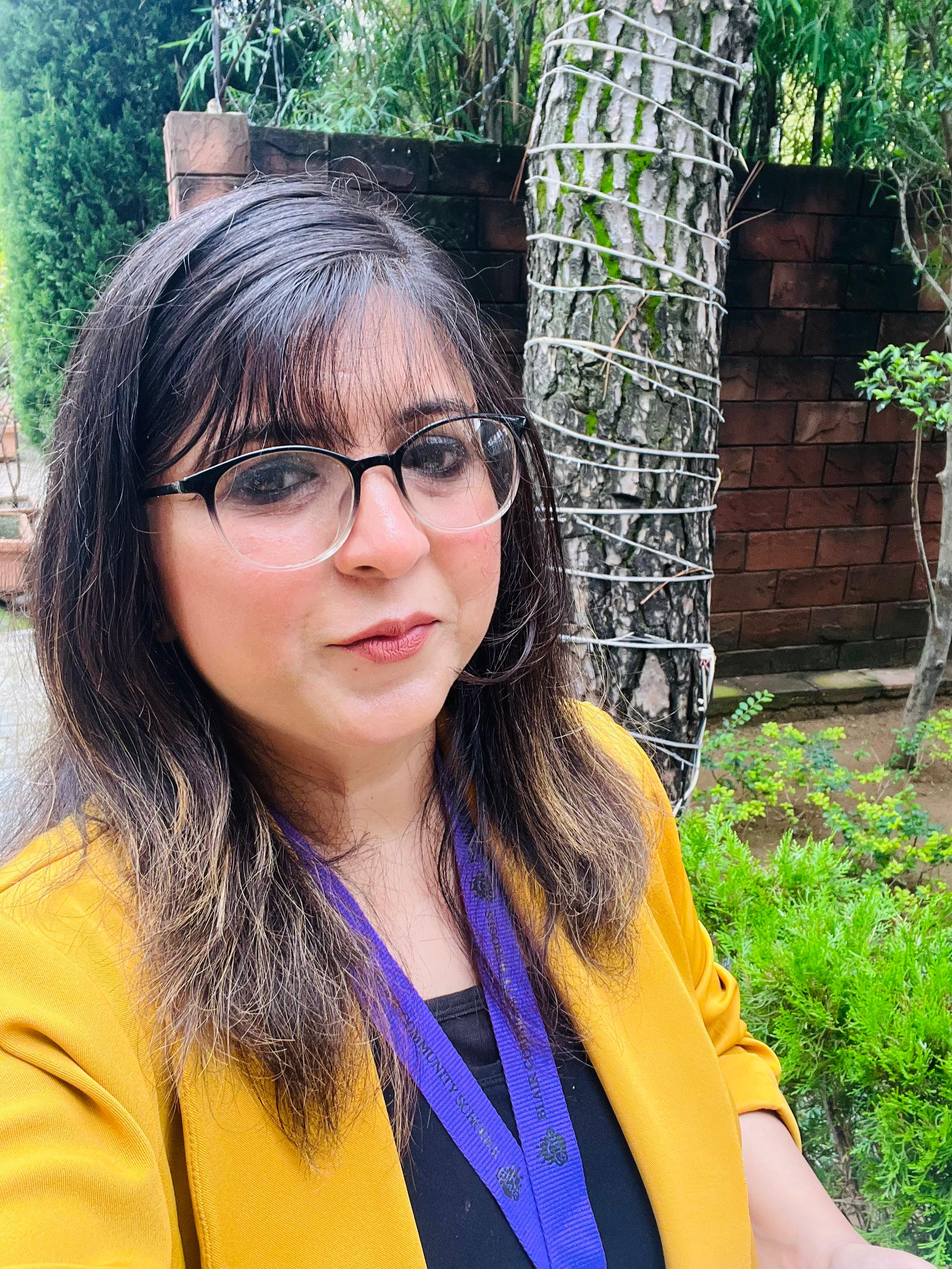
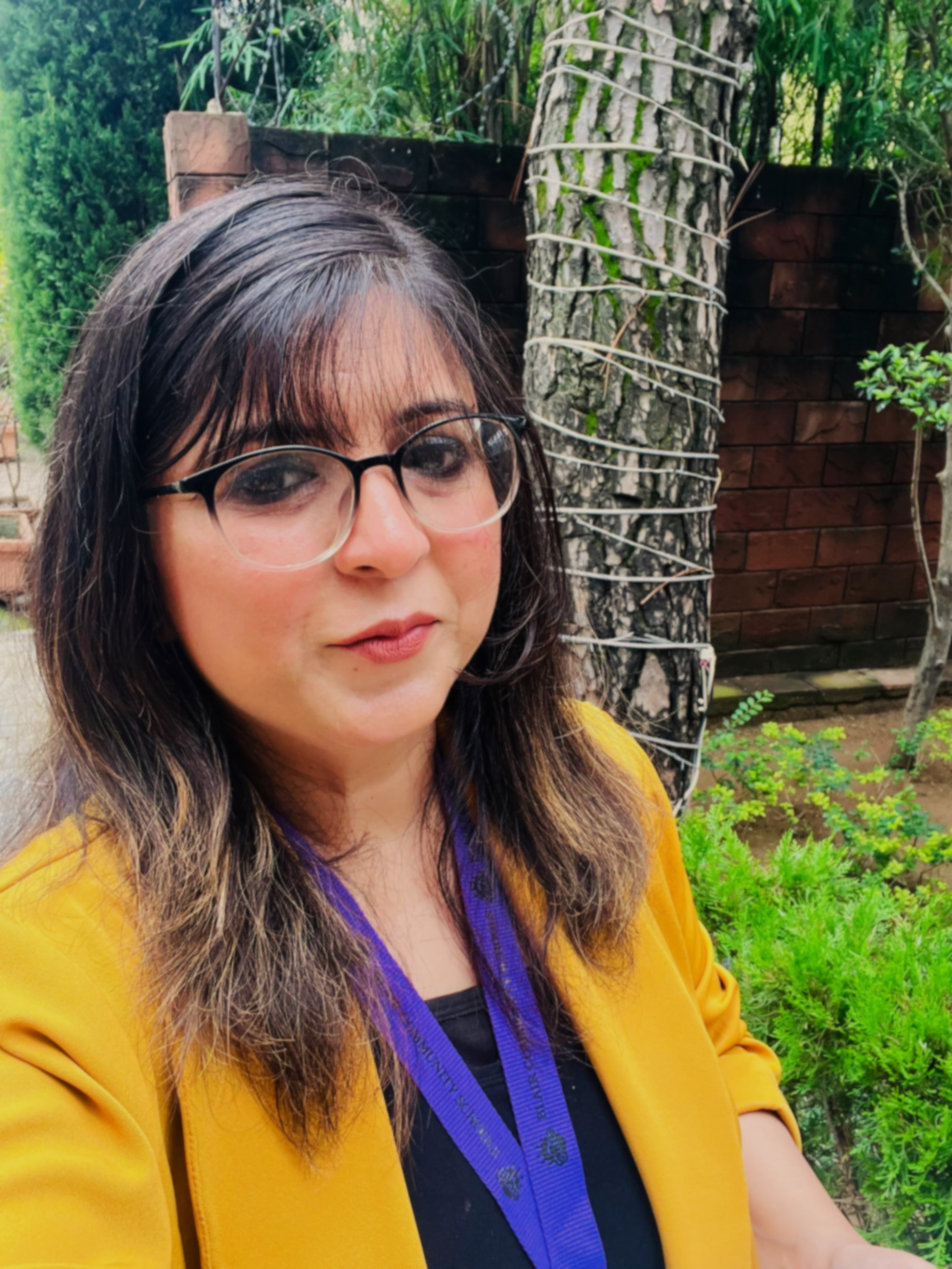
fixed some bugs

diff --git a/our-team.html b/our-team.html
@@ -1382,7 +1382,7 @@
             <div class="image-container">
               <div class="circle-bg"></div>
               <img
-                src="https://images.unsplash.com/photo-1472099645785-5658abf4ff4e?w=400&h=400&fit=crop&crop=face"
+                src="/assets/image/maam-yasmeen-rabnwaz.jpg"
                 alt="Muhammad Awais"
                 class="profile-image"
               />
@@ -1530,7 +1530,7 @@
             <div class="image-container">
               <div class="circle-bg"></div>
               <img
-                src="https://images.unsplash.com/photo-1472099645785-5658abf4ff4e?w=400&h=400&fit=crop&crop=face"
+                src="/assets/image/saima-tasaduq.jpg"
                 alt="Muhammad Awais"
                 class="profile-image"
               />
